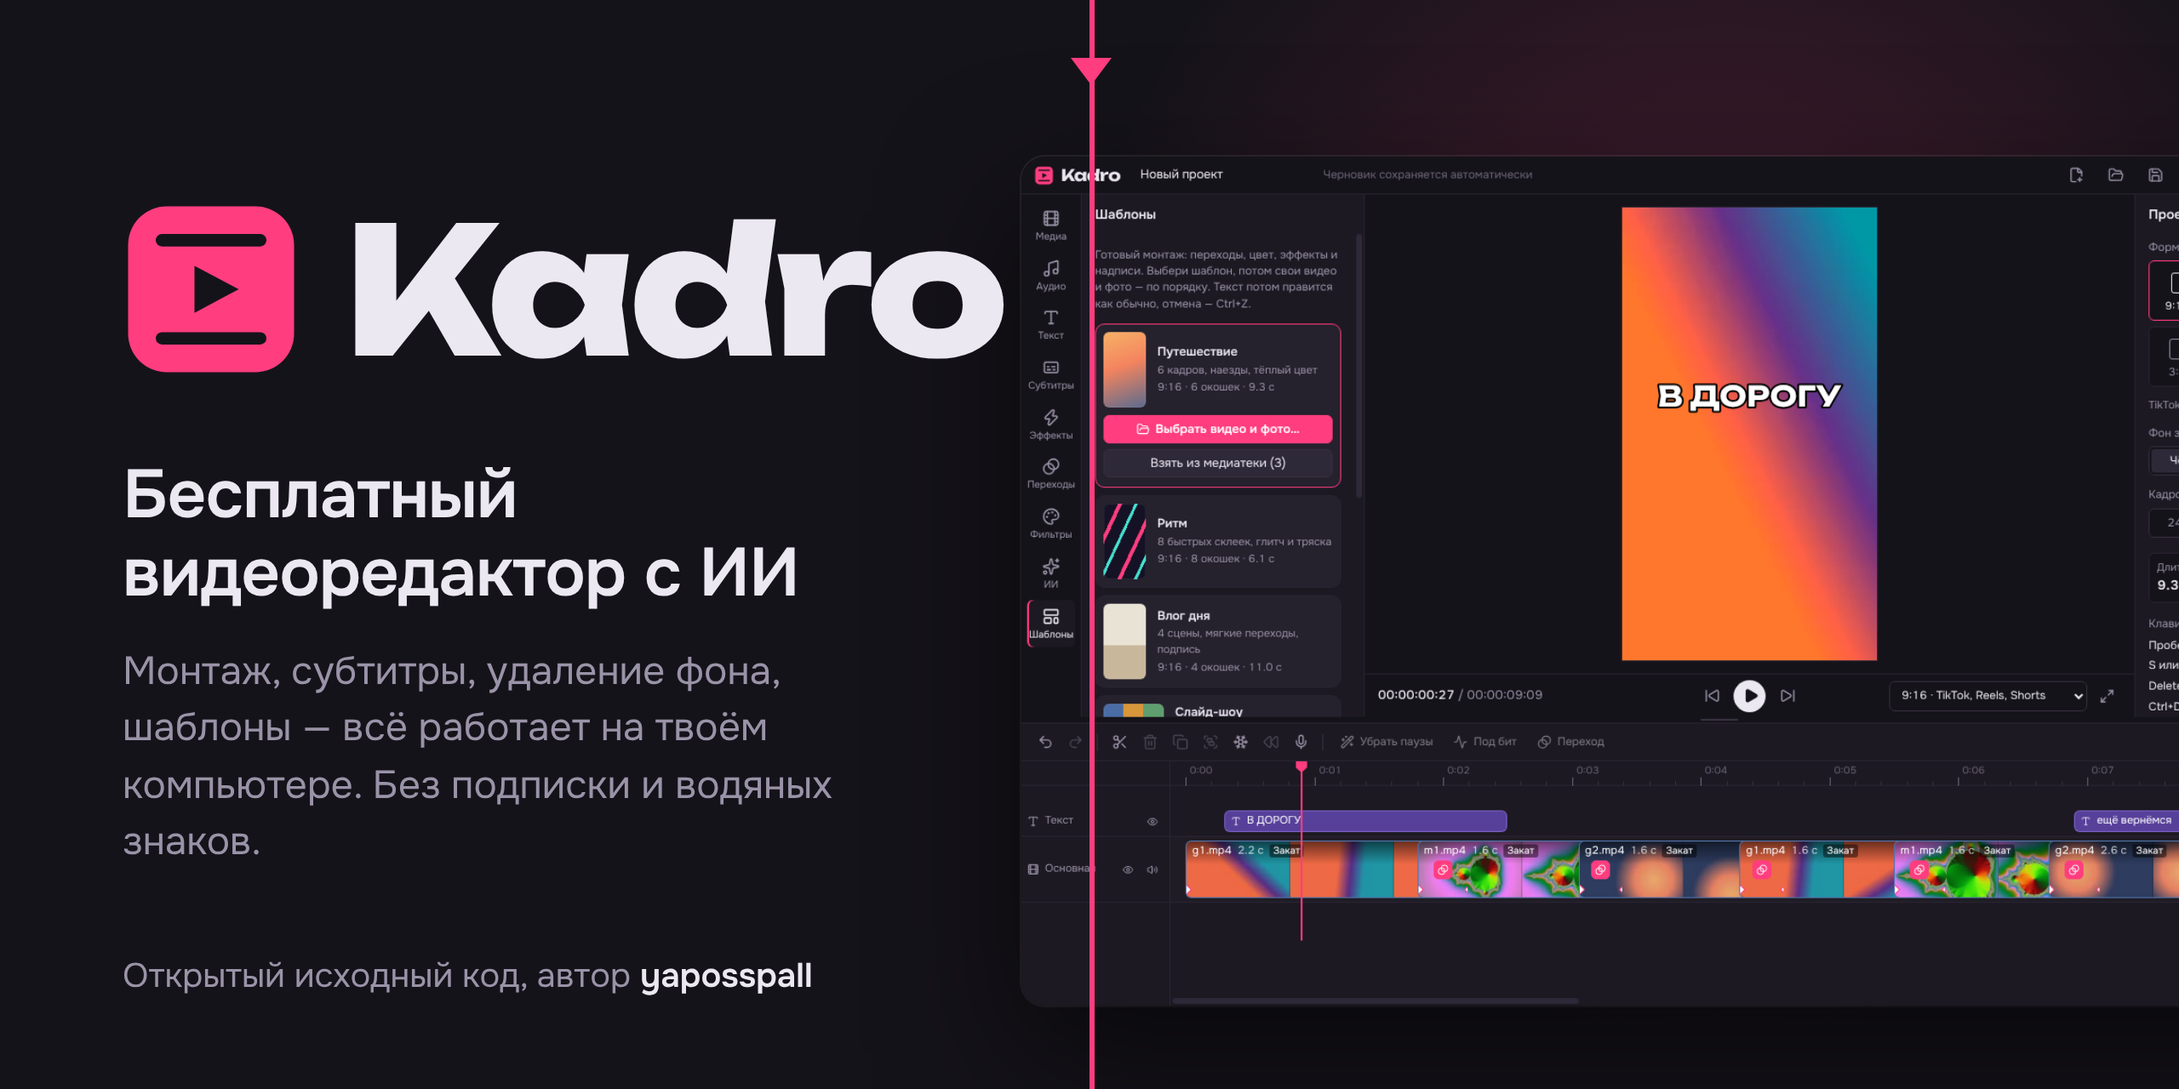
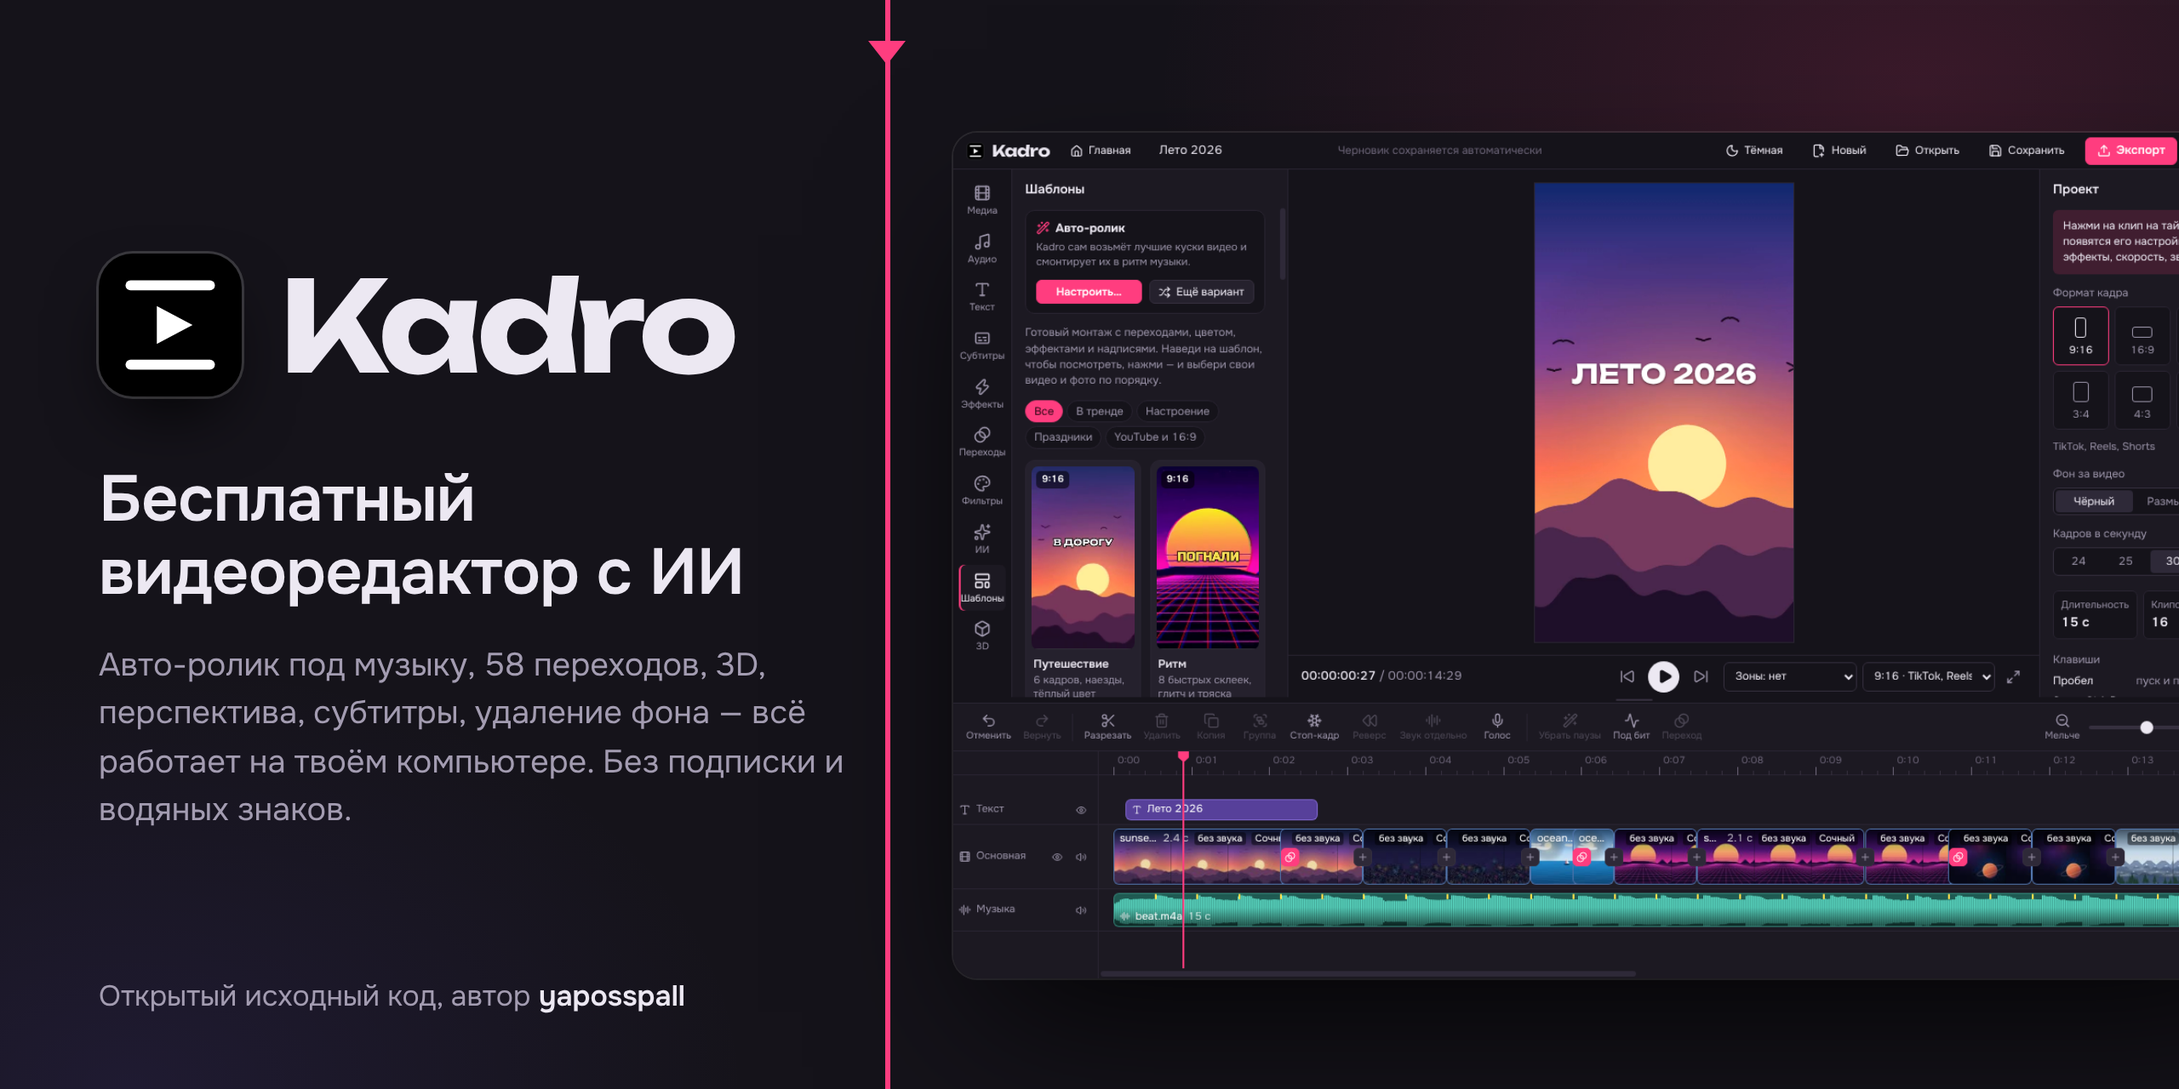
Страница на GitHub: гифка, новая обложка, свежие снимки, README с текущими возможностями
- docs/demo.gif — авто-ролик от выбора файлов до готового монтажа (снято самой программой)
- Обложка и превью ссылки с новой чёрной иконкой (scripts/banner.html, scripts/make-banner.mjs)
- Снимки: главный экран, авто-ролик, перспектива, 3D, библиотека, светлая тема
- Авто-ролик: горизонтальное видео в вертикальном ролике — на весь кадр; кнопка в библиотеке — отдельной строкой

Claude-Session: https://claude.ai/code/session_01SLdS9k2x7CNrH4zniVX1AR

diff --git a/tests/unit/autoEdit.test.ts b/tests/unit/autoEdit.test.ts
@@ -201,7 +201,7 @@ describe('авто-ролик: сборка', () => {
     for (const x of mainClips(p)) expect(grid.some((g) => Math.abs(g - x.start) < 0.002)).toBe(true);
   });
 
-  it('вертикальное видео в горизонтальном ролике — целиком, с размытым фоном', () => {
+  it('вертикальное видео в горизонтальном ролике — целиком, с размытым фоном; горизонтальное в вертикальном — на весь кадр', () => {
     const { project: p } = autoEdit(newProject('x'), base({
       aspect: '16:9', media: [{ asset: asset('tall', 'video', 10, { width: 1080, height: 1920 }) }, { asset: asset('wide', 'video', 10) }],
     }));
@@ -209,6 +209,10 @@ describe('авто-ролик: сборка', () => {
     expect(cl.find((c) => c.assetId === 'tall')!.fit).toBe('contain');
     expect(cl.find((c) => c.assetId === 'wide')!.fit).toBe('cover');
     expect(p.settings.background).toBe('blur');
+    // горизонтальное в вертикальном — на весь кадр
+    const v = autoEdit(newProject('x'), base({ aspect: '9:16', media: [{ asset: asset('wide', 'video', 10) }] }));
+    expect(mainClips(v.project)[0].fit).toBe('cover');
+    expect(v.project.settings.background).not.toBe('blur');
   });
 
   it('один seed — один ролик, другой seed — другой вариант', () => {

diff --git a/src/renderer/components/Library.tsx b/src/renderer/components/Library.tsx
@@ -140,13 +140,14 @@ export function LibraryView() {
           ))}
         </div>
       )}
+      {list.filter((f) => f.kind !== 'audio').length > 1 && (
+        <button className="btn small block lib-auto" title="Собрать ролик из видео и фото этой папки — под музыку из неё, если есть" onClick={() => autoFrom(list)} data-testid="lib-auto">
+          <WandSparkles size={13} />Авто-ролик из этой папки
+        </button>
+      )}
       <div className="lib-head">
         <span className="hint small">{searching ? `Найдено: ${found!.length}${found!.length >= 400 ? ' (первые 400)' : ''}` : files(list.length)}</span>
-        {list.filter((f) => f.kind !== 'audio').length > 1 && (
-          <button className="btn ghost small lib-auto" title="Собрать ролик из видео и фото этой папки — под музыку из неё, если есть" onClick={() => autoFrom(list)} data-testid="lib-auto">
-            <WandSparkles size={13} />Авто-ролик
-          </button>
-        )}
+
         <select className="lib-sort" value={sort} onChange={(e) => setSort(e.target.value as Sort)} title="Порядок файлов" data-testid="lib-sort">
           <option value="name">По имени</option>
           <option value="new">Сначала новые</option>

diff --git a/src/shared/autoEdit.ts b/src/shared/autoEdit.ts
@@ -540,8 +540,8 @@ export function autoEdit(base: Project, inp: AutoInput): { project: Project; sum
     const c: MediaClip = newMediaClip(a);
     const rot = Math.abs(a.rotation % 180) === 90;
     const ar = (rot ? a.height : a.width) / Math.max(1, rot ? a.width : a.height);
-    const mismatch = ar && frameAR ? Math.max(ar / frameAR, frameAR / ar) : 1;
-    c.fit = mismatch > 1.5 ? 'contain' : 'cover';
+    // вертикальное видео в горизонтальном ролике — целиком на размытом фоне; горизонтальное в вертикальном — обрезаем по бокам, как в TikTok
+    c.fit = ar && frameAR && frameAR / ar > 1.5 ? 'contain' : 'cover';
     if (c.fit === 'contain') anyContain = true;
     c.transform = { ...DEFAULT_TRANSFORM };
     if (isVideo(a)) {

diff --git a/src/renderer/styles.css b/src/renderer/styles.css
@@ -728,7 +728,8 @@ textarea.input { resize: vertical; min-height: 64px; line-height: 1.4; user-sele
 .auto-card b svg { color: var(--accent); }
 .auto-card .row-btns { margin-top: 6px; }
 .auto-from-media { margin-top: 8px; justify-content: center; }
-.lib-auto { margin-left: auto; }
+.lib-auto { margin-top: 10px; justify-content: center; }
+.lib-head > .hint { white-space: nowrap; }
 .auto-modal { width: 860px; }
 .auto-modal h3 { display: flex; align-items: center; gap: 8px; }
 .auto-modal h3 svg { color: var(--accent); }

diff --git a/docs/RELEASE_NOTES.md b/docs/RELEASE_NOTES.md
@@ -1,26 +1,27 @@
-## Kadro 0.3.0
+## Kadro 0.4.0
 
 ### ⬇ Скачать
 
-- **[Kadro-Setup-0.3.0.exe](https://github.com/honeyjostar/kadro/releases/download/v0.3.0/Kadro-Setup-0.3.0.exe)** — установщик, 195 МБ (после установки около 700 МБ). Рекомендуется.
-- [Kadro-0.3.0-portable.zip](https://github.com/honeyjostar/kadro/releases/download/v0.3.0/Kadro-0.3.0-portable.zip) — без установки, 276 МБ: распакуй и запусти `Kadro.exe`.
+- **[Kadro-Setup-0.4.0.exe](https://github.com/honeyjostar/kadro/releases/download/v0.4.0/Kadro-Setup-0.4.0.exe)** — установщик, 203 МБ (после установки около 700 МБ). Рекомендуется.
+- [Kadro-0.4.0-portable.zip](https://github.com/honeyjostar/kadro/releases/download/v0.4.0/Kadro-0.4.0-portable.zip) — без установки, 284 МБ: распакуй и запусти `Kadro.exe`.
 
 «Source code» в списке файлов ниже — исходный код для программистов, программы там нет.
 
-Если Windows покажет «Система Windows защитила ваш компьютер» — «Подробнее → Выполнить в любом случае» (у установщика нет платной подписи). После установки Kadro запускается ярлыком на рабочем столе или в меню «Пуск». Обновление ставится поверх, проекты сохраняются.
+Если Windows покажет «Система Windows защитила ваш компьютер» — «Подробнее → Выполнить в любом случае» (у установщика нет платной подписи). После установки Kadro запускается ярлыком на рабочем столе или в меню «Пуск». Обновление ставится поверх 0.3.0, проекты сохраняются.
 
 ### Новое
-- **Видеоэффекты:** тряска, пульс, вспышка, глитч, RGB-сдвиг, VHS, зерно, виньетка, размытие, пиксели, зеркало, негатив, радуга — с регулировкой силы
-- **Скорость:** кривые скорости (6 готовых и своя), реверс, стоп-кадр
-- **Запись голоса** с микрофона прямо поверх видео
-- **Цвет:** кривые, HSL по 8 цветам, свои LUT-файлы (.cube)
-- **Ретушь лица:** сглаживание и осветление кожи
-- **Группы** (составные клипы): Ctrl+G / Ctrl+Shift+G, в том числе с прозрачным фоном
-- **Шаблоны:** 6 встроенных и свои
-
-### Исправлено
-- Экспорт падал, если на основной дорожке после склейки без перехода шла склейка с переходом
-- Плеер надёжнее показывает нужный кадр сразу после перемотки
-- Рамка выделения клипа больше не вылезает за пределы плеера
+- **Авто-ролик:** выбираешь видео, фото и музыку — Kadro берёт лучшие куски (резкие, светлые, с движением) и монтирует их точно в ритм. 4 стиля, формат, длина, надпись; «Ещё вариант» — другой монтаж из тех же файлов
+- **Главный экран:** новый проект нужного формата, недавние проекты, демо-ролик и демо-проект
+- **19 шаблонов** с живыми превью — можно посмотреть на демо-видео, не добавляя своих файлов
+- **58 переходов, 48 эффектов** (в том числе частицы: снег, конфетти, сердечки, блёстки), **47 фильтров** по группам, **122 шрифта** с кириллицей
+- **Перспектива:** наклон видео, фото и текста; «Углы» — видео на 4 точках (в экран телефона, на стену)
+- **3D-объекты:** готовые фигуры или своя модель (GLB, GLTF, OBJ, STL, FBX) с движением, материалом и светом
+- **Анимации клипов:** 10 видов появления и исчезновения (проявление, выскок, выезд сбоку, падение, вращение…)
+- **Плавное замедление:** недостающие кадры дорисовываются
+- **«Извлечь звук»** из видео на отдельную дорожку
+- **Библиотека папок** во вкладке «Медиа»: папки со съёмками и музыкой видны в любом проекте
+- **Для TikTok, Reels и Shorts:** в плеере видно, где интерфейс закроет видео; перед экспортом — проверка текста и длины ролика
+- **Светлая тема**, подписанные кнопки на таймлайне, новая иконка
+- Анимированные GIF играют как видео, с прозрачностью
 
 Полный список возможностей — в [README](https://github.com/honeyjostar/kadro#readme), руководство — [docs/GUIDE.md](https://github.com/honeyjostar/kadro/blob/master/docs/GUIDE.md).

diff --git a/docs/GUIDE.md b/docs/GUIDE.md
@@ -191,7 +191,7 @@
 - **Музыка** — свой файл, музыка из проекта, демо-бит Kadro или без музыки. С музыкой Kadro находит её ритм, и каждая склейка встаёт ровно на долю. Без музыки склейки идут по ровному темпу стиля.
 - **Звук из видео** — только музыка, видео тихо под музыкой или видео и музыка вместе.
 - **Стиль**: «Динамичный» (быстрые склейки, вспышки на сильных долях), «Плавный» (длинные кадры, мягкие переходы, медленные наезды), «Кино» (кинополосы, цвет как в фильме, переходы через чёрное), «Плёнка» (тёплый плёночный цвет, зерно, засветки).
-- **Формат** — 9:16, 16:9, 1:1 или 4:5. Видео другой ориентации (вертикальное в горизонтальном ролике) встаёт целиком, а по бокам — размытый фон.
+- **Формат** — 9:16, 16:9, 1:1 или 4:5. Вертикальное видео в горизонтальном ролике встаёт целиком, а по бокам — размытый фон; горизонтальное в вертикальном — на весь кадр, края обрезаются (как принято в TikTok).
 - **Длина** — «Сколько получится» (по количеству материала, обычно 8–45 секунд) или 15 секунд, 30 секунд, минута.
 - **Надпись в начале** — например, «Лето на море». Пусто — без надписи.
 

diff --git a/docs/BUILD.md b/docs/BUILD.md
@@ -77,6 +77,21 @@ KADRO_MAKE_PREVIEWS=1 xvfb-run -a npx playwright test previews   # демо-ро
 Превью собираются в самом Kadro: шаблон на демо-видео → экспорт → сжатие (`tests/e2e/previews.spec.ts`).
 Один шаблон: `KADRO_MAKE_PREVIEWS=trip,reel …`. После правки шаблона в `src/shared/templates.ts` его превью нужно пересобрать.
 
+## Картинки для README
+
+Гифка, снимки экрана и обложка тоже снимаются с самой программы:
+
+```bash
+npm run build
+KADRO_README=/tmp/readme xvfb-run -a npx playwright test readme   # кадры гифки (tour/) и снимки *.png
+cd /tmp/readme/tour && ffmpeg -f concat -safe 0 -i list.txt \
+  -vf "fps=12,scale=960:-2:flags=lanczos,split[a][b];[a]palettegen=max_colors=192:stats_mode=diff[p];[b][p]paletteuse=dither=bayer:bayer_scale=4:diff_mode=rectangle" demo.gif
+node scripts/make-banner.mjs docs/screenshots/editor.png          # docs/brand/banner.png и social-preview.png
+```
+
+В `tour/frames.json` — время каждого кадра и отметки начала и конца сборки авто-ролика: этот отрезок в гифке
+удобно ускорить (в `docs/demo.gif` — в 5 раз).
+
 ## Установщик для Windows
 
 Собирается на Linux (или в WSL). Нужны `nsis` и `unzip`:
